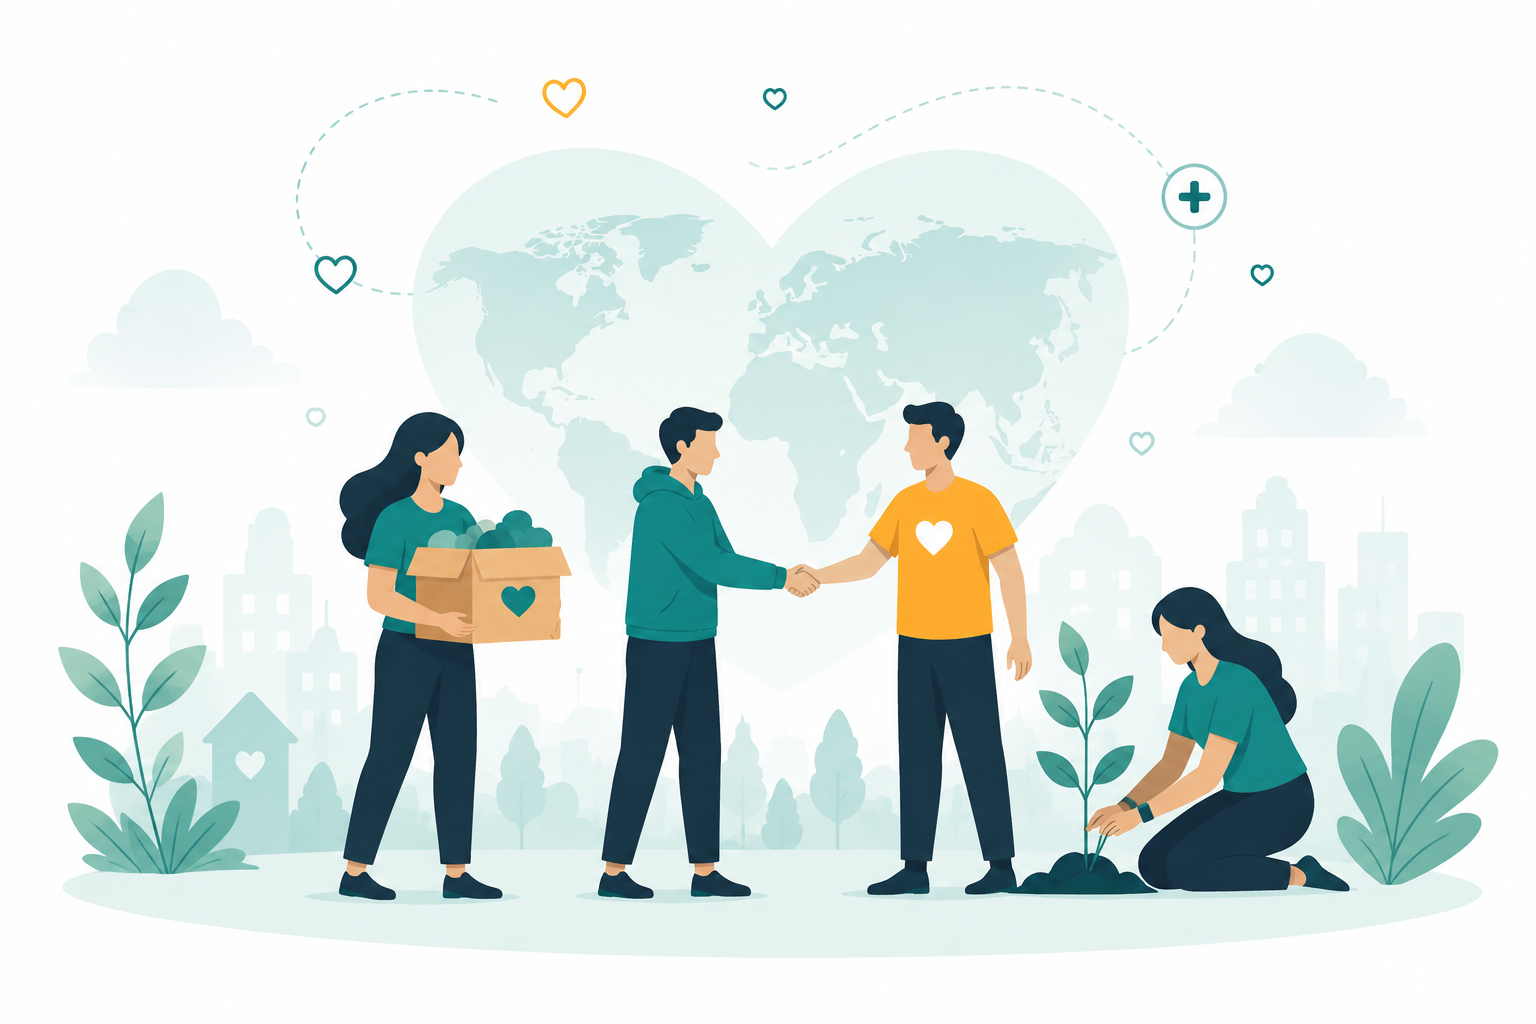
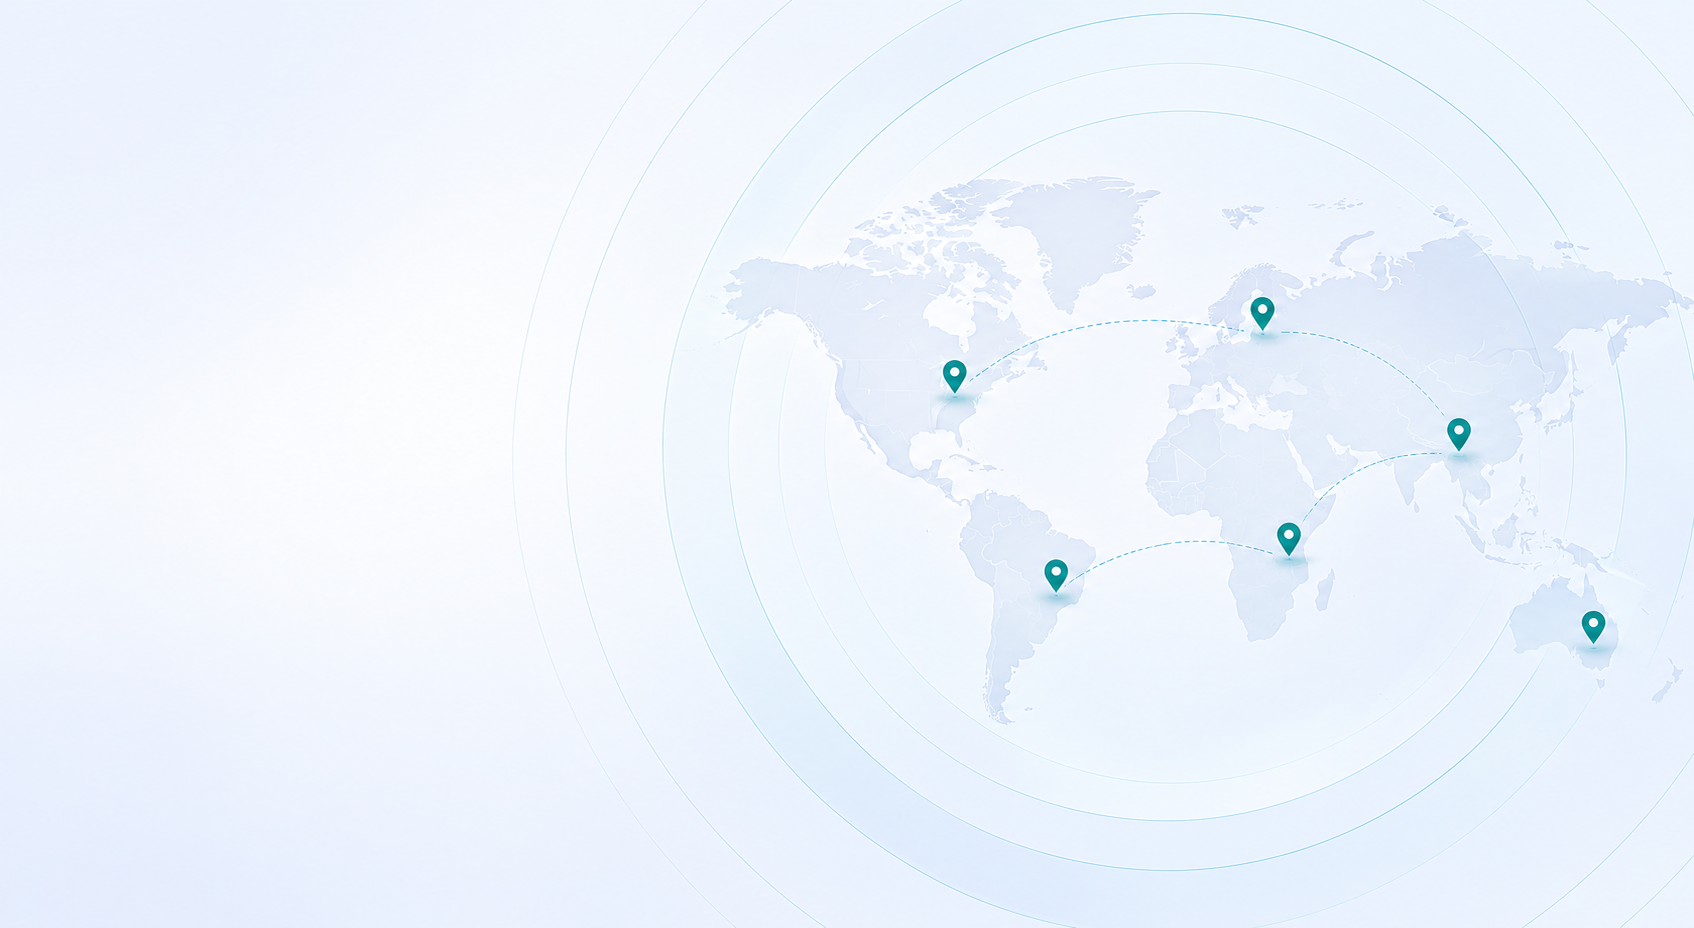
style(hero): change hero background image

diff --git a/frontend/src/components/Hero.jsx b/frontend/src/components/Hero.jsx
@@ -16,43 +16,18 @@ const Hero = ({
     bgClass = 'bg-[#FCFBFD]',
 }) => {
     return (
-        <section className={`relative overflow-hidden mt-20 ${bgClass}`}>
-            {/* DESKTOP IMAGE */}
-            {image && (
-                <div
-                    className="
-                        hidden lg:flex
-                        items-center
-                        absolute
-                        inset-y-0
-                        right-0
-                        w-[48vw]
-                        xl:w-[52vw]
-                        2xl:w-[56vw]
-                        z-0
-                        pointer-events-none
-                    "
-                >
-                    <img
-                        src={image}
-                        alt="hero illustration"
-                        className="
-                            w-full
-                            h-auto
-                            object-contain
-                            object-right
-                            lg:translate-x-6
-                            xl:translate-x-10
-                        "
-                    />
-                </div>
-            )}
+        <section
+            className={`mt-24 bg-cover bg-center relative ${bgClass}`}
+            style={{ backgroundImage: `url(${image})` }}
+        >
+            {/* OVERLAY */}
+            <div className="absolute z-0 inset-0 bg-white/30" />
 
             {/* MAIN CONTENT */}
             <div className="relative z-10 container-width py-16 lg:py-24">
                 <div className="grid grid-cols-1 lg:grid-cols-2 items-center gap-12">
                     {/* LEFT CONTENT */}
-                    <div className="text-center lg:text-left">
+                    <div className="text-center sm:text-left">
                         <SectionHeading
                             align="center"
                             headingTag="h1"
@@ -64,7 +39,7 @@ const Hero = ({
                             headingClass="capitalize"
                             description={description}
                             descriptionSize="hero"
-                            wrapperClass="lg:items-start lg:text-left"
+                            wrapperClass="sm:items-start sm:text-left"
                         />
 
                         {/* CTA */}
@@ -77,7 +52,7 @@ const Hero = ({
                                 mt-6
                                 lg:mt-10
                                 justify-center
-                                lg:justify-start
+                                sm:justify-start
                             "
                         >
                             {primaryCta && (
@@ -117,23 +92,6 @@ const Hero = ({
 
                     {/* EMPTY RIGHT COLUMN FOR DESKTOP BALANCE */}
                     <div className="hidden lg:block" />
-                </div>
-
-                {/* MOBILE IMAGE + STATS FLOW */}
-                <div className="lg:hidden mt-12 space-y-8">
-                    {image && (
-                        <div className="w-full">
-                            <img
-                                src={image}
-                                alt="hero illustration"
-                                className="
-                                    w-full
-                                    h-auto
-                                    object-contain
-                                "
-                            />
-                        </div>
-                    )}
                 </div>
             </div>
         </section>

diff --git a/frontend/src/layouts/PublicLayout/navbar/Navbar.jsx b/frontend/src/layouts/PublicLayout/navbar/Navbar.jsx
@@ -26,11 +26,14 @@ const Navbar = () => {
     ${
         scrolled
             ? `
-                bg-surface/95
-                backdrop-blur-md
-                shadow-[0_8px_30px_rgba(15,23,42,0.06)]
+            bg-transparent
+            backdrop-blur-md
+            shadow-[0_8px_30px_rgba(15,23,42,0.06)]
             `
-            : 'bg-surface/90 backdrop-blur-sm'
+            : `
+            bg-[linear-gradient(to_right,#F4F7FE_0%,#FAFBFD_28%,#F7FAFE_55%,#F5F9FE_78%,#F1F7FD_100%)]
+            backdrop-blur-md
+            `
     }
 `}
             >
@@ -121,7 +124,7 @@ const Navbar = () => {
                 className={`
         fixed top-0 right-0 z-50
         h-full w-[88%] max-w-95
-        bg-surface
+        bg-[linear-gradient(to_right,#F4F7FE_0%,#FAFBFD_28%,#F7FAFE_55%,#F5F9FE_78%,#F1F7FD_100%)]
 
         flex flex-col
         transition-transform duration-300
@@ -129,14 +132,14 @@ const Navbar = () => {
     `}
             >
                 {/* TOP */}
-                <div className="h-19.5 px-5 border-b border-border flex items-center justify-between shrink-0">
+                <div className="h-24 px-5 border-b border-border flex items-center justify-between shrink-0">
                     <Link to="/" className="flex items-center gap-3">
                         <img src={logo} alt="CareLink" className="w-10" />
 
                         <div className="leading-none">
-                            <h3 className="text-lg font-semibold text-text-primary">
+                            <h3 className="text-lg font-semibold text-primary">
                                 Care
-                                <span className="text-primary">Link</span>
+                                <span className="text-accent">Link</span>
                             </h3>
 
                             <p className="mt-1 text-[10px] uppercase tracking-[0.16em] text-text-secondary">
@@ -159,7 +162,7 @@ const Navbar = () => {
                 </div>
 
                 {/* CTA */}
-                <div className="p-5 border-t border-border shrink-0 bg-surface space-y-3">
+                <div className="p-5 border-t border-border shrink-0 bg-[linear-gradient(to_right,#F4F7FE_0%,#FAFBFD_28%,#F7FAFE_55%,#F5F9FE_78%,#F1F7FD_100%)] space-y-3">
                     {/* LOGIN as LINK */}
                     <Link
                         to="/login"

diff --git a/frontend/src/pages/public/home/Home.jsx b/frontend/src/pages/public/home/Home.jsx
@@ -1,7 +1,13 @@
 import React from 'react';
 
 // Icons (external libraries)
-import { TbHeartFilled } from 'react-icons/tb';
+import {
+    TbHeartFilled,
+    TbShieldCheck,
+    TbShieldCheckered,
+    TbShieldCheckeredFilled,
+    TbShieldCheckFilled,
+} from 'react-icons/tb';
 import { HiArrowSmRight } from 'react-icons/hi';
 
 // Reusable/shared components
@@ -22,8 +28,9 @@ const Home = () => {
     return (
         <>
             <Hero
-                badge="Bringing donors, volunteers & communities together"
-                badgeIcon={TbHeartFilled}
+                badge="Together, we make a real difference"
+                badgeIcon={TbShieldCheck}
+                badgeClass="badge-primary"
                 title={
                     <>
                         Delivering <span className="text-primary">Support</span>
@@ -33,7 +40,7 @@ const Home = () => {
                         </span>
                     </>
                 }
-                description="CareLink brings donors, volunteers, and communities together to deliver food, medical aid, and emergency support to people who need it most."
+                description="A network for fast, coordinated humanitarian support."
                 primaryCta={{
                     icon: <TbHeartFilled />,
                     label: 'I Want to Help',

diff --git a/frontend/src/styles/index.css b/frontend/src/styles/index.css
@@ -21,7 +21,8 @@
 
     --color-accent: #f59e0b;
 
-    --color-background: #f4f8f9;
+    /* --color-background: #f4f8f9; */
+    --color-background: #f5f9fe;
     --color-surface: #ffffff;
 
     --color-text-primary: #0f172a;
@@ -66,7 +67,9 @@ body {
 }
 
 .badge-primary {
-    @apply bg-primary/10 px-2 py-1 rounded-2xl border border-primary;
+    @apply bg-white/10 text-primary px-3 py-1 rounded-full
+  border border-white/20 backdrop-blur-md
+  shadow-sm text-xs font-semibold;
 }
 
 .badge-default {

diff --git a/frontend/src/pages/public/home/sections/howCareLinkWorks/HowItWorksSection.jsx b/frontend/src/pages/public/home/sections/howCareLinkWorks/HowItWorksSection.jsx
@@ -75,7 +75,7 @@ const lineVariants = {
 
 const HowCareLinkWorks = () => {
     return (
-        <section className="section-gap bg-background overflow-hidden">
+        <section className="section-gap bg-background">
             <div className="container-width">
                 {/* HEADER */}
                 <SectionHeading